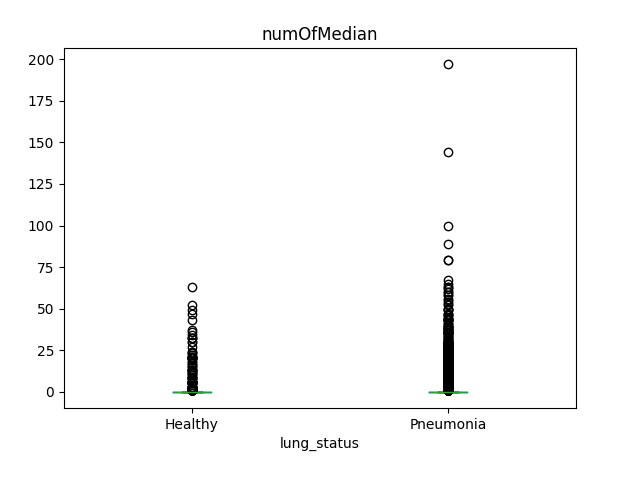
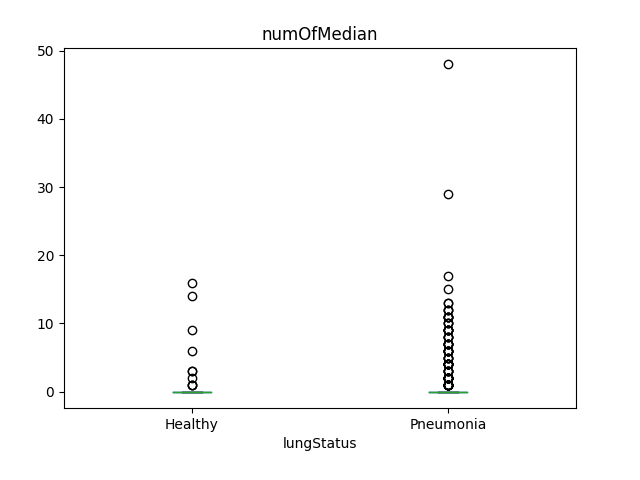
Updating data aug

diff --git a/exploratory_analysis.py b/exploratory_analysis.py
@@ -4,13 +4,11 @@ import pandas as pd
 import numpy as np
 import matplotlib.pyplot as plt
 import cv2
-
 from tensorflow.keras.preprocessing.image import load_img
 from keras.preprocessing.image import ImageDataGenerator
 
 summary = pd.read_csv('data/Chest_xray_Corona_dataset_Summary.csv', index_col=0)
 df = pd.read_csv('data/Chest_xray_Corona_Metadata.csv', index_col=0)
-
 
 ################################ Cleaning data #####################################
 
@@ -53,36 +51,40 @@ for index, row in df.iterrows():
 df_train = df[df['Dataset_type'] == 'TRAIN']
 df_test = df[df['Dataset_type'] == 'TEST']
 
+df_train.to_pickle('data/train_metadata.pkl')
+df_test.to_pickle('data/test_metadata.pkl')
 
 ################################ Image Augmentation #####################################
-try:
-    shutil.rmtree("data/train_aug")
-except OSError:
-    print('Directory data/train_aug does not exist')
-os.mkdir('data/train_aug')
+train_datagen = ImageDataGenerator(featurewise_center=False,
+                                   samplewise_center=False, 
+                                   featurewise_std_normalization=False, 
+                                   samplewise_std_normalization=False, 
+                                   zca_whitening=False, 
+                                   rotation_range = 30,  
+                                   zoom_range = 0.2,
+                                   width_shift_range=0.1,  
+                                   height_shift_range=0.1,  
+                                   horizontal_flip = True, 
+                                   vertical_flip=False) 
 
-
-dataGen = ImageDataGenerator(featurewise_center=False,
-                              samplewise_center=False, 
-                              featurewise_std_normalization=False, 
-                              samplewise_std_normalization=False, 
-                              zca_whitening=False, 
-                              rotation_range = 30,  
-                              zoom_range = 0.2,
-                              width_shift_range=0.1,  
-                              height_shift_range=0.1,  
-                              horizontal_flip = True, 
-                              vertical_flip=False) 
+test_datagen = ImageDataGenerator()
 
 PIXELS_RESIZE = 200
-imageAugIter = dataGen.flow_from_dataframe(dataframe = df_train,
-                                           directory = 'data/train',
-                                           x_col = 'X_ray_image_name',
-                                           y_col = 'allLabel', 
-                                           target_size = (PIXELS_RESIZE, PIXELS_RESIZE),
-                                           color_mode = 'grayscale',
-                                           class_mode = 'raw',
-                                           save_to_dir = 'data/train_aug')
+train_flow = train_datagen.flow_from_dataframe(dataframe = df_train,
+                                               directory = 'data/train',
+                                               x_col = 'X_ray_image_name',
+                                               y_col = 'allLabel', 
+                                               target_size = (PIXELS_RESIZE, PIXELS_RESIZE),
+                                               color_mode = 'grayscale',
+                                               class_mode = 'raw')
+
+test_flow = test_datagen.flow_from_dataframe(dataframe = df_test,
+                                             directory = 'data/test',
+                                             x_col = 'X_ray_image_name',
+                                             y_col = 'allLabel', 
+                                             target_size = (PIXELS_RESIZE, PIXELS_RESIZE),
+                                             color_mode = 'grayscale',
+                                             class_mode = 'raw')
 
 ################################ Transform data #####################################
 medianPixel = round(255 / 2)
@@ -108,7 +110,7 @@ def img_summary(imgr, label):
             x2ypos[x,y] = (x*x)*y*(imgr[x,y]/255)
             xy2pos[x,y] = x*(y*y)*(imgr[x,y]/255)
 
-    n = 400000        
+    n = PIXELS_RESIZE*PIXELS_RESIZE        
     xybar = ((n * np.sum(xpos*ypos)) - (np.sum(xpos)*np.sum(ypos))) / (np.sqrt((n*np.sum(xpos**2) - np.sum(xpos)**2) * (n*np.sum(ypos**2) - np.sum(ypos)**2)))
     
     numMedian = 0
@@ -118,12 +120,12 @@ def img_summary(imgr, label):
     summary_dict = {
         'img': imgr,
         'label': label,
-        'lung_status': 'Healthy' if label == 'Healthy' else 'Pneumonia',
-        'shadeAvg': np.mean(imgr),
-        'shadeVar': np.var(imgr),
-        'lightestShade': np.max(imgr),
+        'lungStatus': 'Healthy' if label == 'Healthy' else 'Pneumonia',
+        'grayToneAvg': np.mean(imgr),
+        'grayToneVar': np.var(imgr),
+        'lightestGrayTone': np.max(imgr),
         'numOfLightest': pixelCounts[np.max(imgr)],
-        'darkestShade': np.min(imgr),
+        'darkestGrayTone': np.min(imgr),
         'numOfDarkest': pixelCounts[np.min(imgr)],
         'numOfMedian': numMedian,
         'numAboveMedian': len(lightPixels),
@@ -142,14 +144,14 @@ def img_summary(imgr, label):
     }
     return summary_dict
 
-def transform_train(imageAugIter):
+def transform_data(imageAugIter, batch):
     print('Creating training set...')
     df_transform = pd.DataFrame()
 
     count = 0
     for x in imageAugIter:
         count = count + 1
-        if count > 300:
+        if count > batch:
             break
             
         images = x[0]
@@ -161,12 +163,12 @@ def transform_train(imageAugIter):
             df_transform = df_transform.append({
                 'img': summary_dict['img'],
                 'label': summary_dict['label'],
-                'lung_status': summary_dict['lung_status'],
-                'shadeAvg': summary_dict['shadeAvg'],
-                'shadeVar': summary_dict['shadeVar'],
-                'lightestShade': summary_dict['lightestShade'],
+                'lungStatus': summary_dict['lungStatus'],
+                'grayToneAvg': summary_dict['grayToneAvg'],
+                'grayToneVar': summary_dict['grayToneVar'],
+                'lightestGrayTone': summary_dict['lightestGrayTone'],
                 'numOfLightest': summary_dict['numOfLightest'],
-                'darkestShade': summary_dict['darkestShade'],
+                'darkestGrayTone': summary_dict['darkestGrayTone'],
                 'numOfDarkest': summary_dict['numOfDarkest'],
                 'numOfMedian': summary_dict['numOfMedian'],
                 'numAboveMedian': summary_dict['numAboveMedian'],
@@ -185,49 +187,49 @@ def transform_train(imageAugIter):
             }, ignore_index = True)
     return df_transform
 
-def transform_test(df):
-    print('Creating testing set...')
-    df_transform = pd.DataFrame()
+# def transform_test(df):
+#     print('Creating testing set...')
+#     df_transform = pd.DataFrame()
         
-    for index, row in df.iterrows():
-        img = cv2.imread('data/test/' + row['X_ray_image_name'], cv2.IMREAD_GRAYSCALE)
-        try:
-            imgr = cv2.resize(img, (PIXELS_RESIZE, PIXELS_RESIZE))
-        except Exception as e:
-            print('Removed ' + row['X_ray_image_name'] + ' since it is broken')
-            continue
+#     for index, row in df.iterrows():
+#         img = cv2.imread('data/test/' + row['X_ray_image_name'], cv2.IMREAD_GRAYSCALE)
+#         try:
+#             imgr = cv2.resize(img, (PIXELS_RESIZE, PIXELS_RESIZE))
+#         except Exception as e:
+#             print('Removed ' + row['X_ray_image_name'] + ' since it is broken')
+#             continue
             
-        summary_dict = img_summary(img, row['allLabel'])
+#         summary_dict = img_summary(img, row['allLabel'])
 
-        df_transform = df_transform.append({
-            'img': summary_dict['img'],
-            'label': summary_dict['label'],
-            'lung_status': summary_dict['lung_status'],
-            'shadeAvg': summary_dict['shadeAvg'],
-            'shadeVar': summary_dict['shadeVar'],
-            'lightestShade': summary_dict['lightestShade'],
-            'numOfLightest': summary_dict['numOfLightest'],
-            'darkestShade': summary_dict['darkestShade'],
-            'numOfDarkest': summary_dict['numOfDarkest'],
-            'numOfMedian': summary_dict['numOfMedian'],
-            'numAboveMedian': summary_dict['numAboveMedian'],
-            'numBelowMedian': summary_dict['numBelowMedian'],
-            'aboveMedianAvg': summary_dict['aboveMedianAvg'],
-            'aboveMedianVar': summary_dict['aboveMedianVar'],
-            'belowMedianAvg': summary_dict['belowMedianAvg'],
-            'belowMedianVar': summary_dict['belowMedianVar'],
-            'xbar': summary_dict['xbar'],
-            'x2bar': summary_dict['x2bar'],
-            'ybar': summary_dict['ybar'],
-            'y2bar': summary_dict['y2bar'],
-            'x2ybr': summary_dict['x2ybr'],
-            'xy2br': summary_dict['xy2br'],
-            'xybar': summary_dict['xybar'],
-        }, ignore_index = True)
-    return df_transform
+#         df_transform = df_transform.append({
+#             'img': summary_dict['img'],
+#             'label': summary_dict['label'],
+#             'lung_status': summary_dict['lung_status'],
+#             'shadeAvg': summary_dict['shadeAvg'],
+#             'shadeVar': summary_dict['shadeVar'],
+#             'lightestShade': summary_dict['lightestShade'],
+#             'numOfLightest': summary_dict['numOfLightest'],
+#             'darkestShade': summary_dict['darkestShade'],
+#             'numOfDarkest': summary_dict['numOfDarkest'],
+#             'numOfMedian': summary_dict['numOfMedian'],
+#             'numAboveMedian': summary_dict['numAboveMedian'],
+#             'numBelowMedian': summary_dict['numBelowMedian'],
+#             'aboveMedianAvg': summary_dict['aboveMedianAvg'],
+#             'aboveMedianVar': summary_dict['aboveMedianVar'],
+#             'belowMedianAvg': summary_dict['belowMedianAvg'],
+#             'belowMedianVar': summary_dict['belowMedianVar'],
+#             'xbar': summary_dict['xbar'],
+#             'x2bar': summary_dict['x2bar'],
+#             'ybar': summary_dict['ybar'],
+#             'y2bar': summary_dict['y2bar'],
+#             'x2ybr': summary_dict['x2ybr'],
+#             'xy2br': summary_dict['xy2br'],
+#             'xybar': summary_dict['xybar'],
+#         }, ignore_index = True)
+#     return df_transform
 
-train = transform_train(imageAugIter)
-test = transform_test(df_test)
+train = transform_data(train_flow, 300)
+test = transform_data(test_flow, 19)
 train.to_pickle('data/train.pkl')
 test.to_pickle('data/test.pkl')
 
@@ -277,7 +279,7 @@ avgCountsNormal = [0] * 256
 avgCountsPneu = [0] * 256
 for index, row in train.iterrows():
     counts, bins = np.histogram(train.iloc[index]['img'].ravel(), 256, (0,255))
-    patientType = row['lung_status']
+    patientType = row['lungStatus']
     if patientType == "Healthy":
         avgCountsNormal = avgCountsNormal + counts
         countNormal += 1
@@ -289,14 +291,14 @@ avgCountsNormal = avgCountsNormal / countNormal
 avgCountsPneu = avgCountsPneu / countPneu
 
 plt.bar(np.arange(0,256), avgCountsNormal)
-plt.xlabel('Pixel Shade')
+plt.xlabel('Pixel Gray Tone')
 plt.ylabel('Avg Count')
 plt.savefig('images/hist_normal')
 
 plt.clf()
 
 plt.bar(np.arange(0,256), avgCountsPneu)
-plt.xlabel('Pixel Shade')
+plt.xlabel('Pixel Gray Tone')
 plt.ylabel('Avg Count')
 plt.savefig('images/hist_pneumonia')
 
@@ -313,8 +315,8 @@ plt.clf()
 print('Creating boxplots...')
 # for every explanatory variable, create boxplot
 for col in train.columns:
-    if col not in ('img', 'label', 'lung_status'):
-        boxplot = train.boxplot(by = 'lung_status', column = [col], grid = False)
+    if col not in ('img', 'label', 'lungStatus'):
+        boxplot = train.boxplot(by = 'lungStatus', column = [col], grid = False)
         plt.title(col)
         plt.suptitle("")
         plt.savefig('images/boxplot_' + col)

diff --git a/modelling.py b/modelling.py
@@ -13,7 +13,7 @@ df_test = pd.read_pickle('data/test.pkl')
 
 # separates explanatory and response into 2 dataframes
 def separateXandY(df):
-    features = list(filter(lambda k: ('label' not in k and 'img' not in k and 'lung_status' not in k), df.columns))
+    features = list(filter(lambda k: ('label' not in k and 'img' not in k and 'lungStatus' not in k), df.columns))
     x = df[features]
     y = df[['label']]
     return x, y
